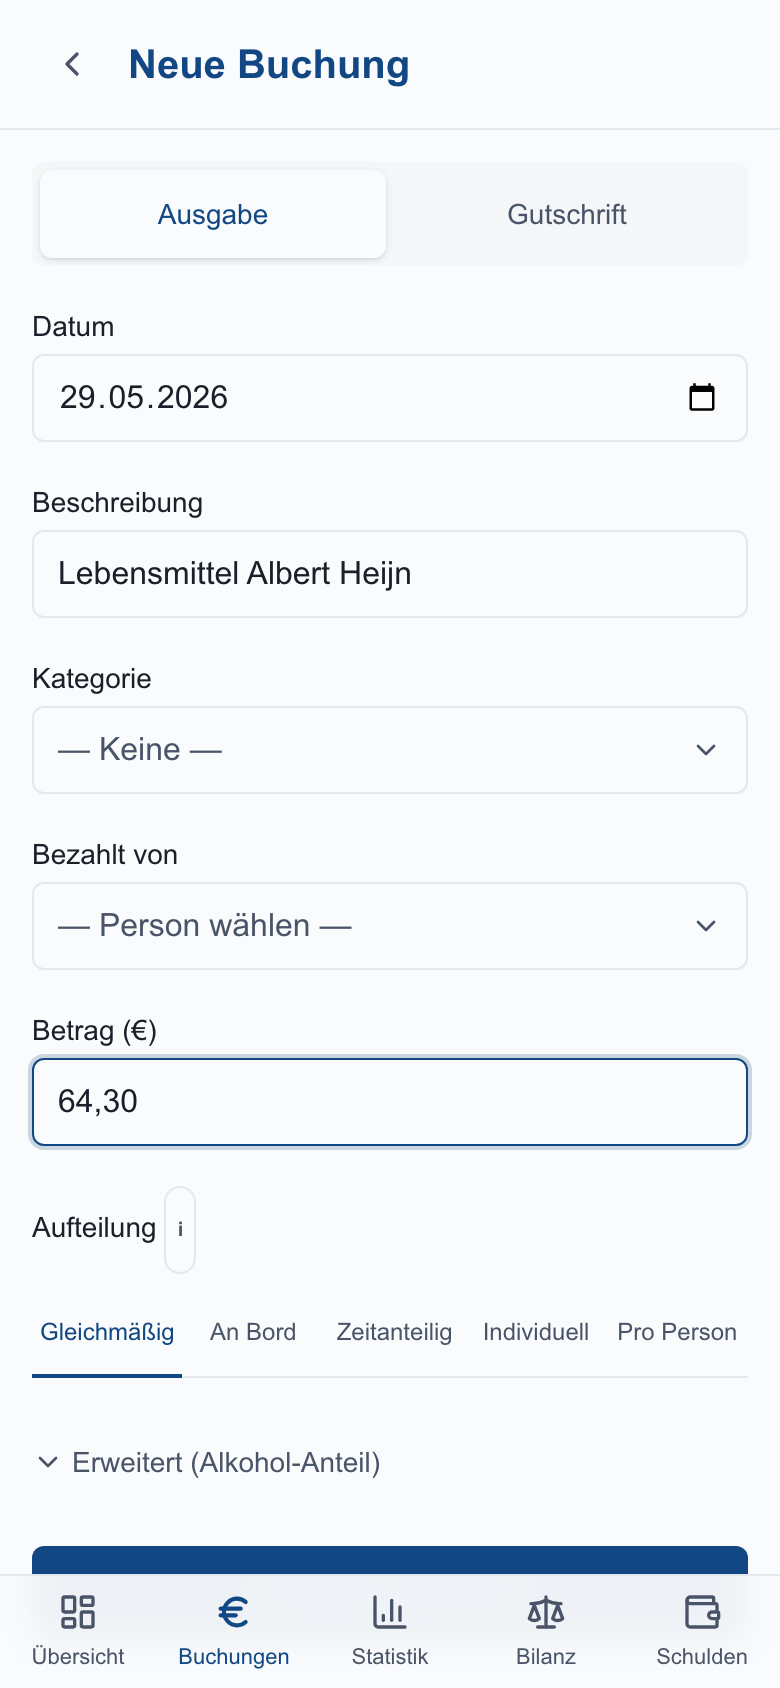
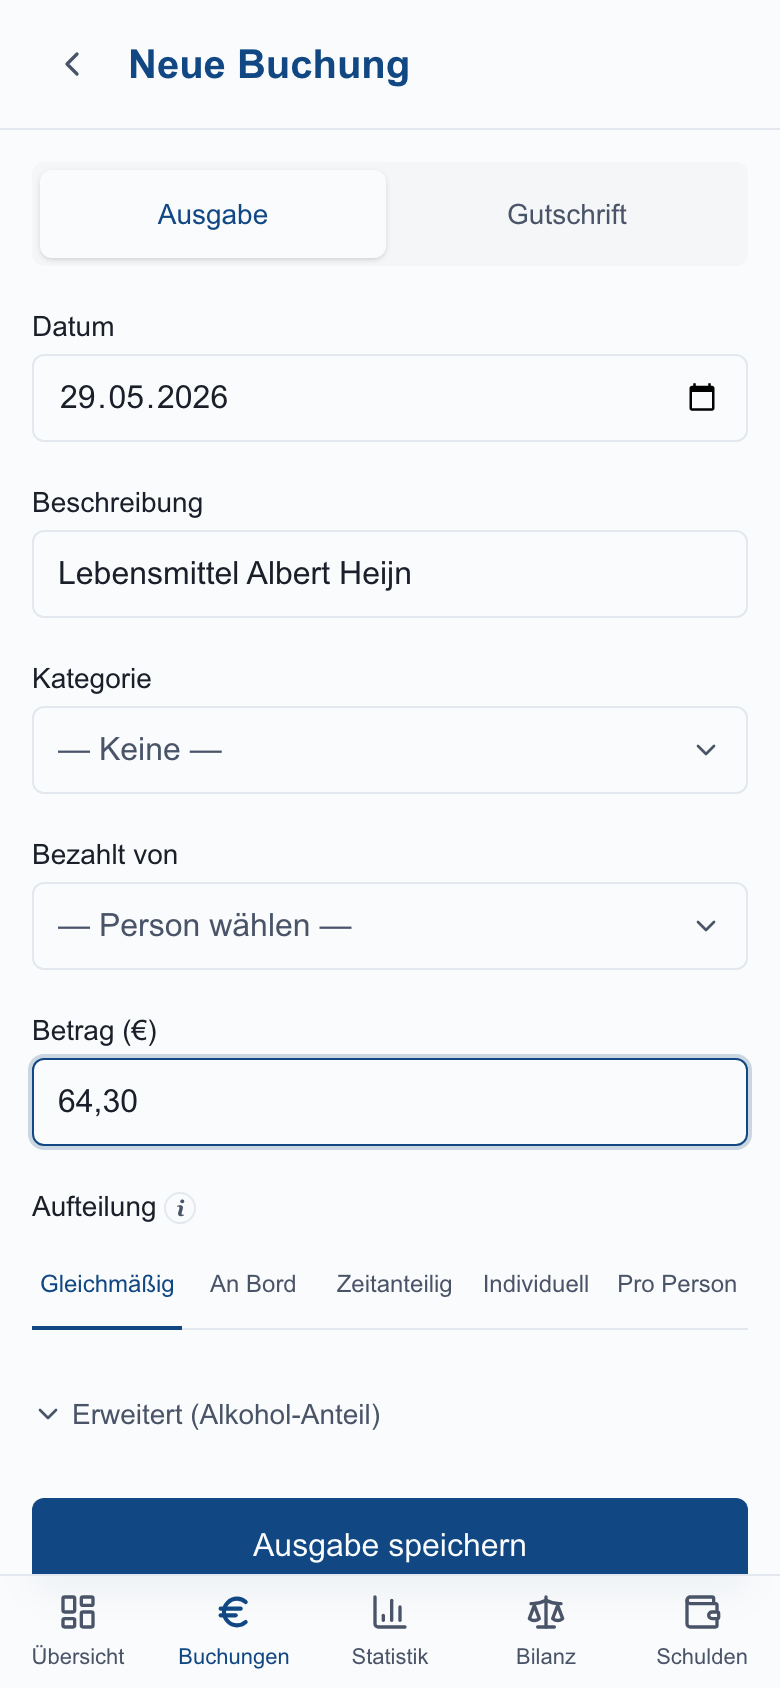
fix(info-tooltip): runder Kreis statt länglicher Pille
`<button>`-Browser-Defaults (min-width, padding) überschrieben die Tailwind-
`size-4`-Klasse und zogen den Trigger zu einer Pille. Robust gefixt via
inline-style mit explizitem width/height/minWidth/minHeight=16 und
box-sizing:border-box, sodass der Trigger unabhängig vom Eltern-Layout
(z.B. flex-Container in <h2>) ein perfekter Kreis bleibt.

Bonus: italic Georgia für das „i" — typografisch konsistent zur ⓘ-Konvention.

diff --git a/webapp/components/info-tooltip.tsx b/webapp/components/info-tooltip.tsx
@@ -45,7 +45,7 @@ export function InfoTooltip({
   }, [open]);
 
   return (
-    <span ref={wrapperRef} className="relative inline-flex align-middle">
+    <span ref={wrapperRef} className="relative inline-flex shrink-0 align-middle">
       <button
         type="button"
         aria-label={label}
@@ -60,7 +60,23 @@ export function InfoTooltip({
         onMouseLeave={() => setOpen(false)}
         onFocus={() => setOpen(true)}
         onBlur={() => setOpen(false)}
-        className="ml-1 inline-flex h-4 w-4 items-center justify-center rounded-full border border-rule text-[10px] font-semibold leading-none text-ink-soft hover:border-primary/40 hover:text-primary focus:outline-none focus:ring-2 focus:ring-primary/30"
+        // Explizite Maße via inline-style — manche Browser-Defaults für
+        // `<button>` (min-width / padding) überschreiben Tailwind-Utilities
+        // und ziehen den Button zu einer Pille auseinander. Mit fixed
+        // width/height + box-sizing:border-box bleibt es ein Kreis,
+        // unabhängig vom Eltern-Layout (flex-Parent, etc.).
+        style={{
+          width: 16,
+          height: 16,
+          minWidth: 16,
+          minHeight: 16,
+          padding: 0,
+          boxSizing: "border-box",
+          fontStyle: "italic",
+          fontFamily: "Georgia, 'Times New Roman', serif",
+          lineHeight: 1,
+        }}
+        className="ml-1 inline-flex shrink-0 items-center justify-center rounded-full border border-rule text-[11px] font-bold text-ink-soft hover:border-primary/40 hover:text-primary focus:outline-none focus:ring-2 focus:ring-primary/30"
       >
         i
       </button>
